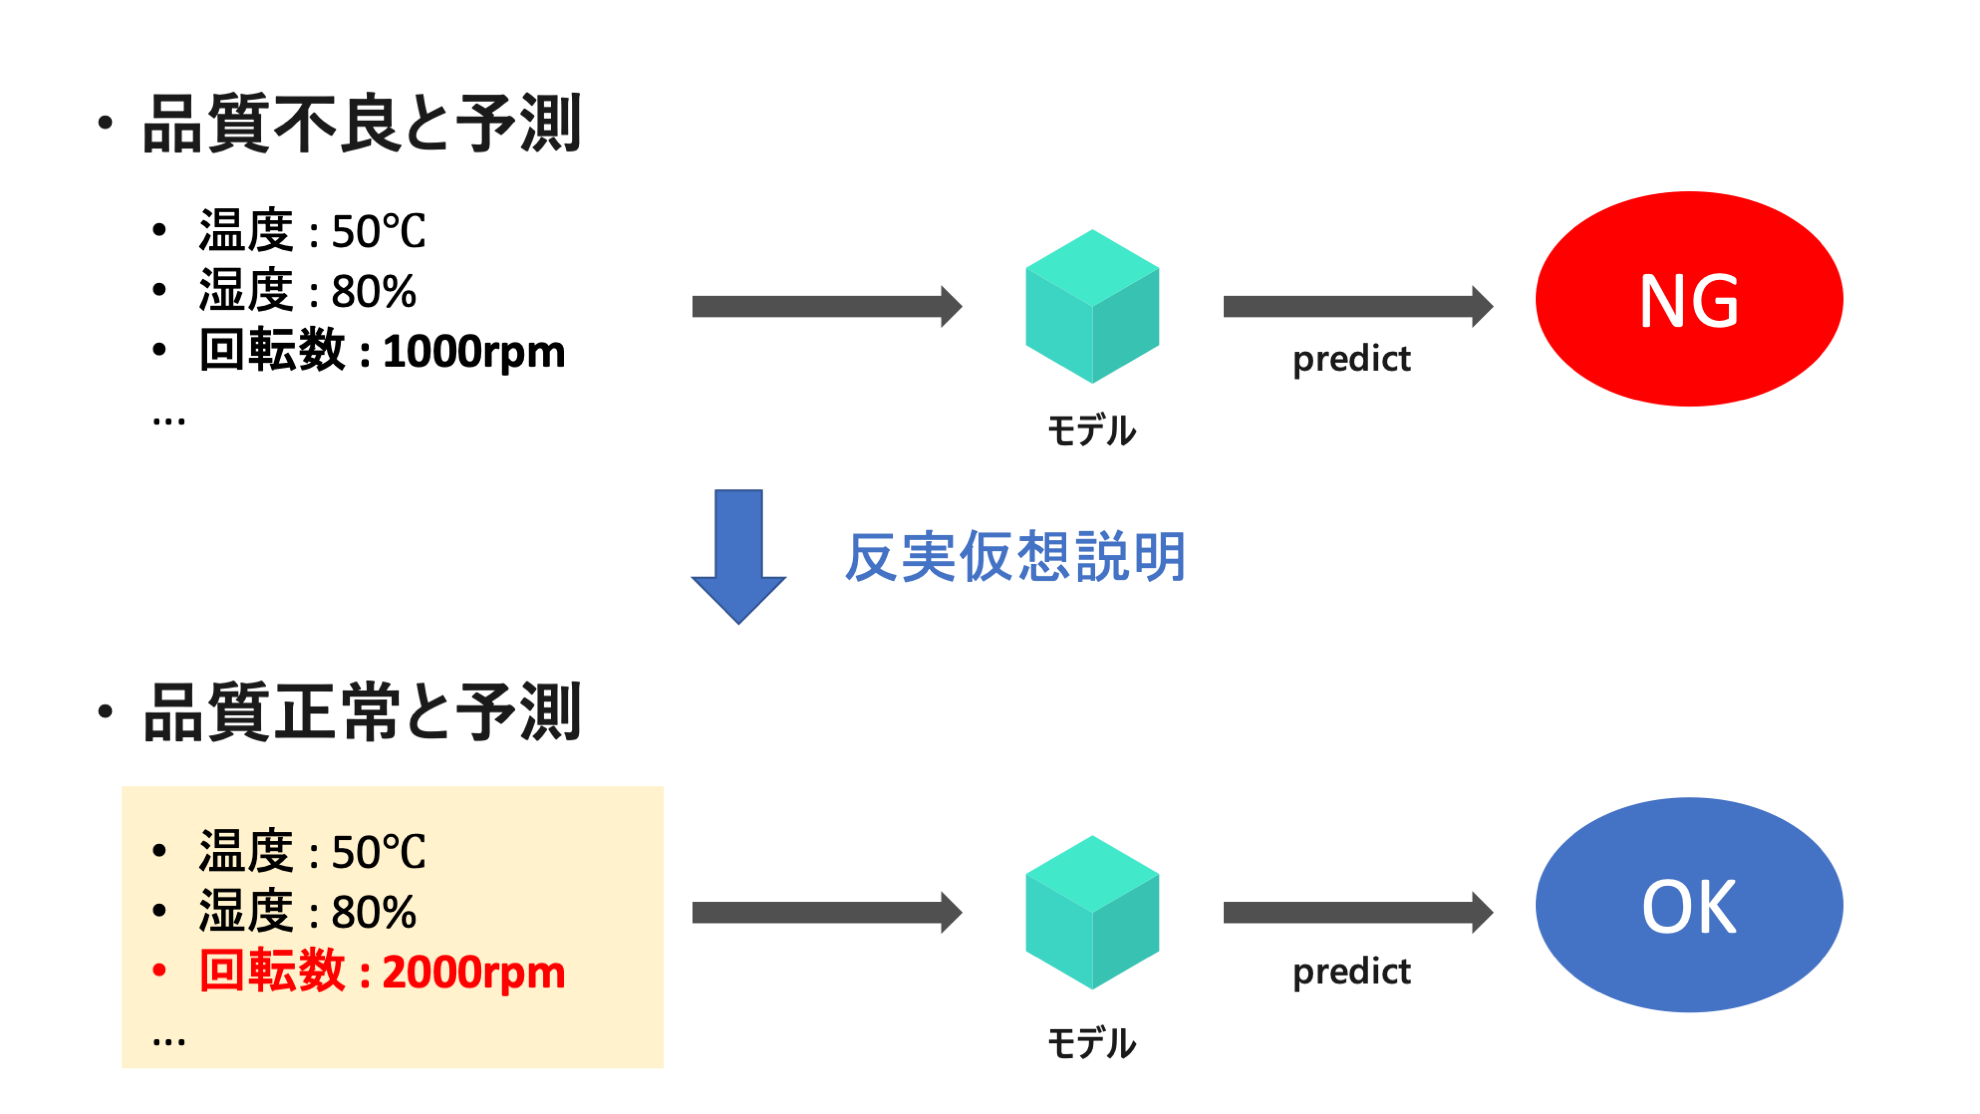
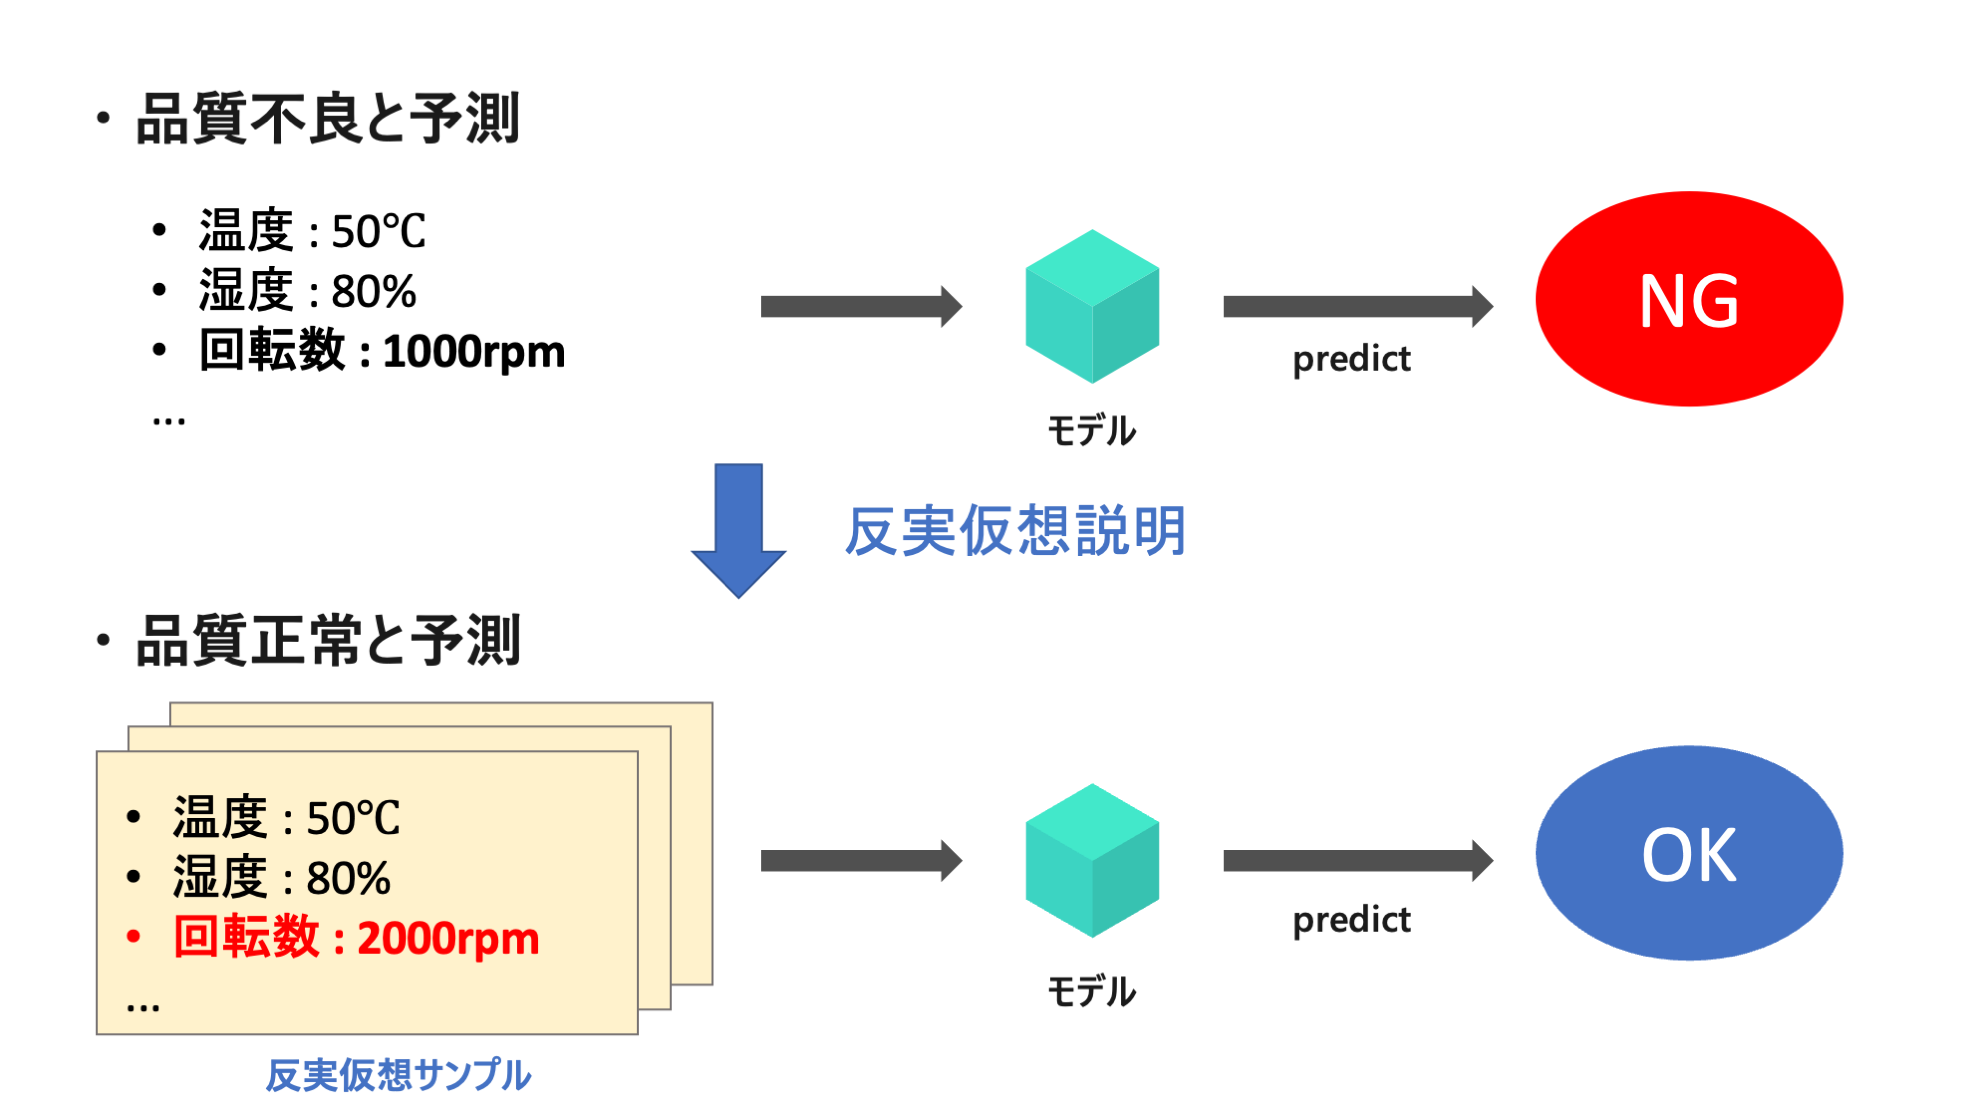
asof 27th March 2023

diff --git a/website/docs/manufacturing/quality-control/qc-diagnostic.md b/website/docs/manufacturing/quality-control/qc-diagnostic.md
@@ -72,12 +72,13 @@ title: 1 変数 & 多変数の解析
 近年、著しい進化を遂げている**ニューラルネットワーク**は、多層のネットワーク構造を用いて予測値を出力することができます。
 <img src={require('./images/qc-factor-analysis-nn.png').default} width="500" /><br />
 
-
-単に品質に関する指標を予測する高精度な予測モデルを構築するだけでは不十分です。**機械学習モデルの解釈可能性・説明可能性**を考慮した開発が求められてきます。
+:::caution
+複雑な機械学習モデルを用いることで精度の向上が期待できます。しかしながら、要因探索のけるデータ解析の観点では、単に高精度な予測モデルを構築するだけでは、何が原因で不良が発生しているのか分かりません。そのため**機械学習モデルの透明性**を考慮した開発が求められます。s
+:::
 
 ---
 ## 機械学習モデルの透明性
-品質管理の分野では**統計的な手法**を用いたデータ分析が行われてきました。これは解釈可能性の高いアルゴリズムを利用できるというメリットがある一方で、手法によっては制限事項や前提条件が多く、複雑なデータ・多種多様なデータ形式に対応していないという課題があります。
+品質管理の分野では以前より**統計的な手法**を用いたデータ分析が行われてきました。これは解釈可能性の高いアルゴリズムを利用できるというメリットがある一方で、手法によっては制限事項や前提条件が多く、複雑なデータ・多種多様なデータ形式に対応していないという課題があります。
 
 最先端の機械学習の手法を用いることで、複雑なデータを扱うことができます。しかしながら、その内部構造を理解するのは難しく、高い精度の予測は行えるものの、データ解析に利用できないといった課題があります。この課題に対するアプローチ方法として **解釈可能性・説明可能性** や **反実仮想説明** が挙げられます。
 
@@ -85,23 +86,25 @@ title: 1 変数 & 多変数の解析
 ### 解釈可能性・説明可能性
 まず主流なアプローチ方法として機械学習モデルの解釈可能性・説明可能性を利用することが挙げられます。
 
-**解釈性可能性** の高い機械学習モデルとは、品質管理の分野で長年使われてきた統計的手法 (線形回帰モデル、決定木 etc) のようにモデルの構造が解釈しやすいモデルを指します。更に近年は **GA2M** のように、統計的な手法以外でも高い精度を実現できる解釈性可能性の高いモデルが開発されています。
+**解釈性可能性** の高い機械学習モデルとは、品質管理の分野で長年使われてきた統計的手法 (線形回帰モデル、決定木 etc) のようにモデルの構造が解釈しやすいモデルを指します。更に近年は **一般化加法モデル** のように、統計的な手法以外でも高い精度を実現できる解釈性可能性の高いモデルが開発されています。
 
 また **説明可能性** が高いとは、機械学習モデルがアウトプットした予測に対して、なぜその予測を出力したのかを説明できることを指します。このケースでは機械学習モデルを Blackbox として扱います。つまり、内部の構造は考慮せず、機械学習モデルに対する入力と予測値の関係性を見ます。**SHAP** などの手法が開発されています。
 
 
-<!-- TODO : 品質管理における XAI のイメージ図を載せる -->
+<img src={require('./images/qc-interpretability-explainability-usecase.png').default} width="700" /><br />
 
 #### 参考情報
-- [解釈可能性 & 説明可能性](https://konabuta.github.io/azure-machine-learning-playbook/docs/azureml/responsible-ai/rai-interpretability-explainability)
+- [解釈可能性 & 説明可能性 - Azure ML Playbook](https://konabuta.github.io/azure-machine-learning-playbook/docs/azureml/responsible-ai/rai-interpretability-explainability)
 - [GitHub - SHAP](https://github.com/slundberg/shap)
+
+<br/>
 
 ### 反実仮想説明
 **反実仮想説明** は、機械学習モデルの予測が変化する (増加/減少する or 反対になる) 特徴量のサンプルを提示することで機械学習モデルを説明しようとする説明性の手法です。
 
 例えば、品質を予測するモデルを利用したところ、品質が悪いという予測値が返されたとします。反実仮想説明は、この予測値を変化させるため、つまり品質を良くするために、特徴量をどのように変化されば良いのかを提示することができます。
 
-<img src={require('./images/qc-counterfactual-usecase.png').default} width="500" /><br />
+<img src={require('./images/qc-counterfactual-usecase.png').default} width="700" /><br />
 
 #### 参考情報
-- [反実仮想説明](https://konabuta.github.io/azure-machine-learning-playbook/docs/azureml/responsible-ai/rai-counterfactual-explanation)
+- [反実仮想説明 - Azure ML Playbook](https://konabuta.github.io/azure-machine-learning-playbook/docs/azureml/responsible-ai/rai-counterfactual-explanation)

diff --git a/website/docs/manufacturing/equipment-maintenance/em-predictive-maintenance.md b/website/docs/manufacturing/equipment-maintenance/em-predictive-maintenance.md
@@ -17,24 +17,25 @@ title: 予知保全
 ## そもそも何を予測するのか？
 予知保全では機械学習モデルを用いて設備の将来を予測します。代表的な 2 つの予測方法について説明します。
 
-### 1. 故障を予測する
+### 1. 既知の故障を予測する
 設備が故障する前に故障を予測します。業務要件に応じて、設備が故障する確率を予測するか、設備耐用時間を予測するかを選択します。
 
-> #### 🔍 設備が故障する確率を予測する
+#### 🔍 設備が故障する確率を予測する
 「この設備が30日以内に故障する確率は？」といった問いに答えることができる予測方法です。一般的には故障するかどうかのフラグ (正常 or 異常) を予測します。
 
-> #### 🔍 設備耐用時間 (RUL) を予測する
+#### 🔍 設備耐用時間 (RUL) を予測する
 「この設備はあと何日間使えますか？」といった問いに答えることができる予測方法です。一般的には時系列モデルや回帰モデルを用いて、連続的な数値である耐用時間を予測します。
 
+<br/>
 
-### 2. 異常を検知する
+### 2. 未知の異常を検知する
 既知の異常データを利用した教師あり学習と正常データのみを用いた教師あり学習の 2 種類があります。
-> #### 🔍 既知の異常データを利用した学習
-過去に発生した設備故障データを用いて、故障を予測するモデルを構築します。一般的には、教師あり学習の手法を用います。
 
-> #### 🔍 正常データを利用した学習
+#### 🔍 正常データを利用した学習
 設備の正常時のデータのみを用いて、異常を検知するモデルを構築します。一般的には、教師なし学習の手法を用います。
-> <img src={require('./images/em-anomaly-detection.png').default} width="500" /><br />
+
+
+<img src={require('./images/em-anomaly-detection.png').default} width="600" /><br />
 
 <br/>
 
@@ -42,7 +43,7 @@ title: 予知保全
 - [製造業における予測メンテナンスの概要](https://learn.microsoft.com/ja-jp/azure/architecture/industries/manufacturing/predictive-maintenance-overview)
 ---
 ## 故障予測後のアクション
-故障を予測することも大事ですが、その後の設備メンテナンスのことを考慮することが求められます。
+高い精度で故障を予測することに加えて、その後のメンテナンスを効率化することもできます。
 
 - **故障の種類の分類**
   - 故障のパターンは多岐にわたります。故障の種類を分類し、メンテナンスに必要なリソースを迅速に確保します。
@@ -50,10 +51,10 @@ title: 予知保全
   - 故障に寄与している変数から故障原因を探索し対策をすることで今後の故障を防止します。
 
 ### 機械学習モデルの透明性
-設備保全において、高い精度で故障するかどうか、異常かどうかを検知することも大事ですが、機械学習モデルの透明性を確保することで前述のようなメンテナンス作業や故障分析の助けになります。透明性を確保する方法として、 **解釈可能性・説明可能性** や **反実仮想説明** が挙げられます。
+**解釈可能性・説明可能性** や **反実仮想説明** などといった機械学習の透明性の技術を用いることで、設備故障の種類を分類したり、故障原因のヒントを得ることができます。
 
 ### 参考情報
-- [解釈可能性 & 説明可能性](https://konabuta.github.io/azure-machine-learning-playbook/docs/azureml/responsible-ai/rai-interpretability-explainability)
-- [反実仮想説明](https://konabuta.github.io/azure-machine-learning-playbook/docs/azureml/responsible-ai/rai-counterfactual-explanation)
+- [解釈可能性 & 説明可能性 - Azure ML Playbook](https://konabuta.github.io/azure-machine-learning-playbook/docs/azureml/responsible-ai/rai-interpretability-explainability)
+- [反実仮想説明 - Azure ML Playbook](https://konabuta.github.io/azure-machine-learning-playbook/docs/azureml/responsible-ai/rai-counterfactual-explanation)
 
 ---

diff --git a/website/docs/other/session-30th-March-2023.md b/website/docs/other/session-30th-March-2023.md
@@ -2,9 +2,9 @@
 id: session-30th-March-2023
 title: 2023年3月30日 化学工業日報セミナー
 ---
-# Azure Machine Learning を活用した工場データ分析
-
+# 2023年3月30日 化学工業日報セミナー :studio_microphone: 
 ## セッション情報
+- タイトル : Azure Machine Learning を活用した工場データ分析
 - 日時: 30th March, 2023 15:30 - 17:00 (JST)
 - 場所: オンライン
 - 申し込みフォーム: https://www.chemicaldaily.co.jp/seminar/230330/
@@ -24,32 +24,32 @@ title: 2023年3月30日 化学工業日報セミナー
 
 
 ### セッション構成
-#### パート0 : 事前準備 (15:00 - 15:05)
+#### パート0 : 事前準備 (15:30 - 15:35)
 - セッション概要のご案内
 - FastTrack for Azure プログラムのご案内
+    - [FastTrack for Azure](https://azure.microsoft.com/ja-jp/programs/azure-fasttrack/#overview)
+    - [AI & ML デリバリーソリューション](https://konabuta.github.io/azure-machine-learning-playbook/docs/fta/fastrack-for-azure-aiml)
 
-#### パート１ : イントロダクション (15:05 - 15:30)
+#### パート１ : イントロダクション (15:35 - 16:00)
 - [製造業における AI・機械学習の概要](../manufacturing/manufacturing/ai-and-ml-in-manufacturing)
 - [Azure Machine Learning 概要](https://konabuta.github.io/azure-machine-learning-playbook/docs/azureml/fundamentals/azureml-basic)
 
 
-#### パート2 : 品質管理 (15:30 - 15:45)
+#### パート2 : 品質管理 (16:00 - 16:15)
 - [品質管理における AI・機械学習の活用](../manufacturing/quality-control/qc-overview.md)
-- AI・機械学習の技術
-    - [1 変数 & 多変数の解析](../manufacturing/quality-control/qc-diagnostic.md)
-    - 機械学習モデルの透明性
-        - [解釈可能性と説明可能性](https://konabuta.github.io/azure-machine-learning-playbook/docs/azureml/responsible-ai/rai-interpretability-explainability)
-        - [反実仮想説明](https://konabuta.github.io/azure-machine-learning-playbook/docs/azureml/responsible-ai/rai-counterfactual-explanation)
-        - [Responsible AI Toolbox](https://konabuta.github.io/azure-machine-learning-playbook/docs/azureml/responsible-ai/rai-toolbox-for-debug)
+- [1 変数 & 多変数の解析](../manufacturing/quality-control/qc-diagnostic.md)
+- 機械学習モデルの透明性
+    - [解釈可能性と説明可能性](https://konabuta.github.io/azure-machine-learning-playbook/docs/azureml/responsible-ai/rai-interpretability-explainability)
+    - [反実仮想説明](https://konabuta.github.io/azure-machine-learning-playbook/docs/azureml/responsible-ai/rai-counterfactual-explanation)
+    - [Responsible AI Toolbox](https://konabuta.github.io/azure-machine-learning-playbook/docs/azureml/responsible-ai/rai-toolbox-for-debug)
 - [デモンストレーション](../manufacturing/quality-control/qc-demonstration.md)
 
-#### パート3 : 設備保全 (15:45 - 15:55)
+#### パート3 : 設備保全 (16:15 - 15:30)
 - [設備保全のおける AI・機械学習の概要](../manufacturing/equipment-maintenance/em-overview.md)
-- AI・機械学習の技術
-    - [予知保全](../manufacturing/equipment-maintenance/em-predictive-maintenance.md)
+- [予知保全](../manufacturing/equipment-maintenance/em-predictive-maintenance.md)
 - [デモンストレーション](../manufacturing/equipment-maintenance/em-demonstration.md)
 
-#### パート4 : まとめ (15:55 - 16:30)
+#### パート4 : まとめ (15:30 - 16:00)
 - 本日のまとめ
 - 参考情報のご案内
 - Q&A

diff --git a/website/docs/manufacturing/quality-control/qc-overview.md b/website/docs/manufacturing/quality-control/qc-overview.md
@@ -28,7 +28,7 @@ title: 概要
 データ活用といっても様々なレベルがあります。品質管理におけるデータ活用レベルを 5 つに分類したものを下図に示します。
 
 - **データ可視化**
-    - グラフなどを用いてデータを可視化することで傾向を把握します。また工程能力指数などの KPI 値などを見える化することで、工程や製品品質の状態を把握します。
+    - グラフなどを用いてデータを可視化することで傾向を把握します。また、工程能力指数などの KPI 値などを見える化することで、工程や製品品質の状態を把握します。
 - **1 変数の解析**
     - 1 つの変数に対して分析を行います。例えば、ヒストグラムや箱ヒゲ図などを用いた変数の分布を確認し、工程データに異常が発生していないかを確認します。
 - **多変数の解析**
@@ -38,4 +38,4 @@ title: 概要
 - **最適化・自動化**
     - AI・機械学習を用いてこれまで人が行なっていた作業を自動化します。例えば強化学習を用いた製造工程の自動化などがあります。
 
-<img src={require('./images/qc-roadmap.png').default} width="800" /><br />
+<img src={require('./images/qc-roadmap.png').default} width="1000" /><br />

diff --git a/website/docs/manufacturing/manufacturing/ai-and-ml-in-manufacturing.md b/website/docs/manufacturing/manufacturing/ai-and-ml-in-manufacturing.md
@@ -46,7 +46,7 @@ title: AI・機械学習の適用
 AI・機械学習は "データ分析" で利用されます。一概に "データ分析" といってもさまざまな分析手法が存在します。ここでは代表的な 5 つの分析手法を紹介します。
 
 - **記述的分析 (Descriptive)**
-  - 過去に発生した事象に対する分析手法です。例えば工場の稼働データを取得し、過去の稼働率を分析します。レポートやダッシュボードなどの可視化を使うケースが多いです。
+  - 過去に発生した事象に対する分析手法です。例えば、工場の稼働データを取得し、レポートやダッシュボードなどを用いて、過去の稼働率を時系列で可視化します。
 - **診断的分析 (Diagnostic)**
   - 過去に発生した事象の理由・原因を分析する手法です。例えば、製品出荷後に不具合が発生した場合、その原因を探索します。
 - **予測的分析 (Predictive)**
